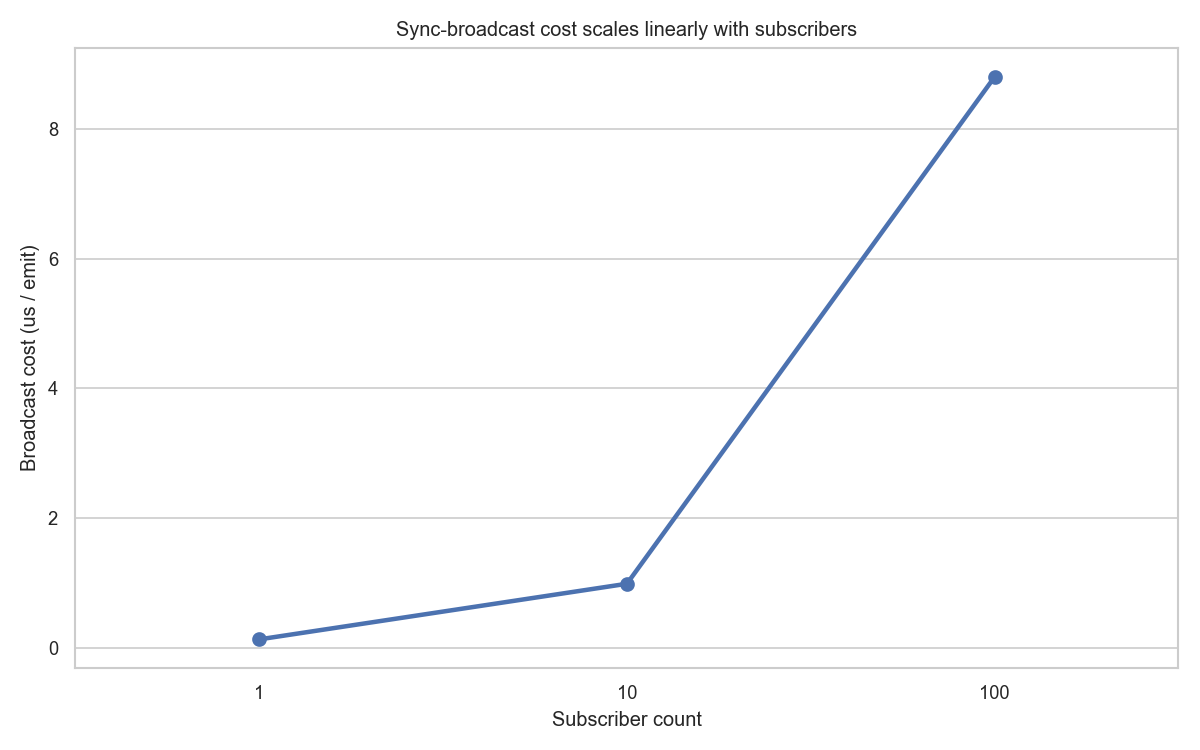
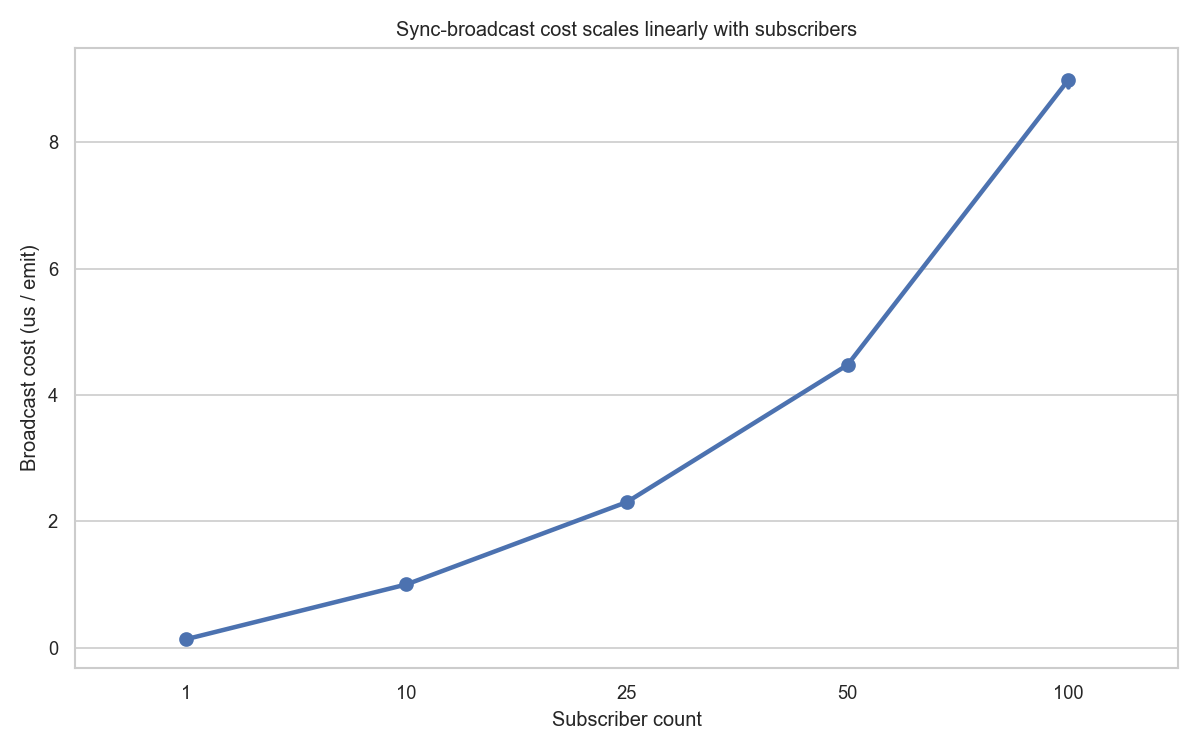
smoother graph

diff --git a/benchmark/micro/status_emission.dart b/benchmark/micro/status_emission.dart
@@ -17,7 +17,7 @@ import 'package:better_internet_connectivity_checker/better_internet_connectivit
 import '../harness/result_writer.dart';
 import '../harness/scenario_args.dart';
 
-const _subscriberCounts = <int>[1, 10, 100];
+const _subscriberCounts = [1, 10, 25, 50, 100];
 
 final class _StatusEmission extends BenchmarkBase {
   final int subscriberCount;

diff --git a/benchmark/README.md b/benchmark/README.md
@@ -320,9 +320,11 @@ not "did I beat the baseline?". Treat them as approximate.
 | `quiet_app` | `dispose_microseconds` | 6.0 µs |
 | `check_once_overhead` (micro) | `microseconds_per_check` | 0.43 µs |
 | `observer_dispatch` (micro) | `microseconds_per_dispatch` | 0.01 µs |
-| `status_emission` N=1 (micro) | `microseconds_per_emission` | 0.13 µs |
-| `status_emission` N=10 (micro) | `microseconds_per_emission` | 0.99 µs |
-| `status_emission` N=100 (micro) | `microseconds_per_emission` | 8.79 µs |
+| `status_emission` N=1 (micro) | `microseconds_per_emission` | 0.14 µs |
+| `status_emission` N=10 (micro) | `microseconds_per_emission` | 1.00 µs |
+| `status_emission` N=25 (micro) | `microseconds_per_emission` | 2.31 µs |
+| `status_emission` N=50 (micro) | `microseconds_per_emission` | 4.47 µs |
+| `status_emission` N=100 (micro) | `microseconds_per_emission` | 8.96 µs |
 | `trigger_storm` | `emissions_per_trigger` | 0.002 |
 | `many_subscribers` N=100 | `max_stall_microseconds` | 3,185 µs (~3 ms) |
 | `flapping_network` (9 s) | `emission_count` | 3 (2 reachable + 1 unreachable) |

diff --git a/benchmark/reports/SUMMARY.md b/benchmark/reports/SUMMARY.md
@@ -70,9 +70,11 @@ From the `status_emission` micro (synchronous broadcast, isolated from the rest 
 
 | Subscribers | N | Median (us/emit) | IQR (us) |
 |---:|---:|---:|---:|
-| 1 | 30 | 0.133 | 0.000 |
-| 10 | 30 | 0.989 | 0.005 |
-| 100 | 30 | 8.79 | 0.021 |
+| 1 | 30 | 0.137 | 0.002 |
+| 10 | 30 | 1.00 | 0.010 |
+| 25 | 30 | 2.31 | 0.026 |
+| 50 | 30 | 4.47 | 0.061 |
+| 100 | 30 | 8.96 | 0.174 |
 
 
 ![Subscriber scaling](subscriber_scaling.png)
